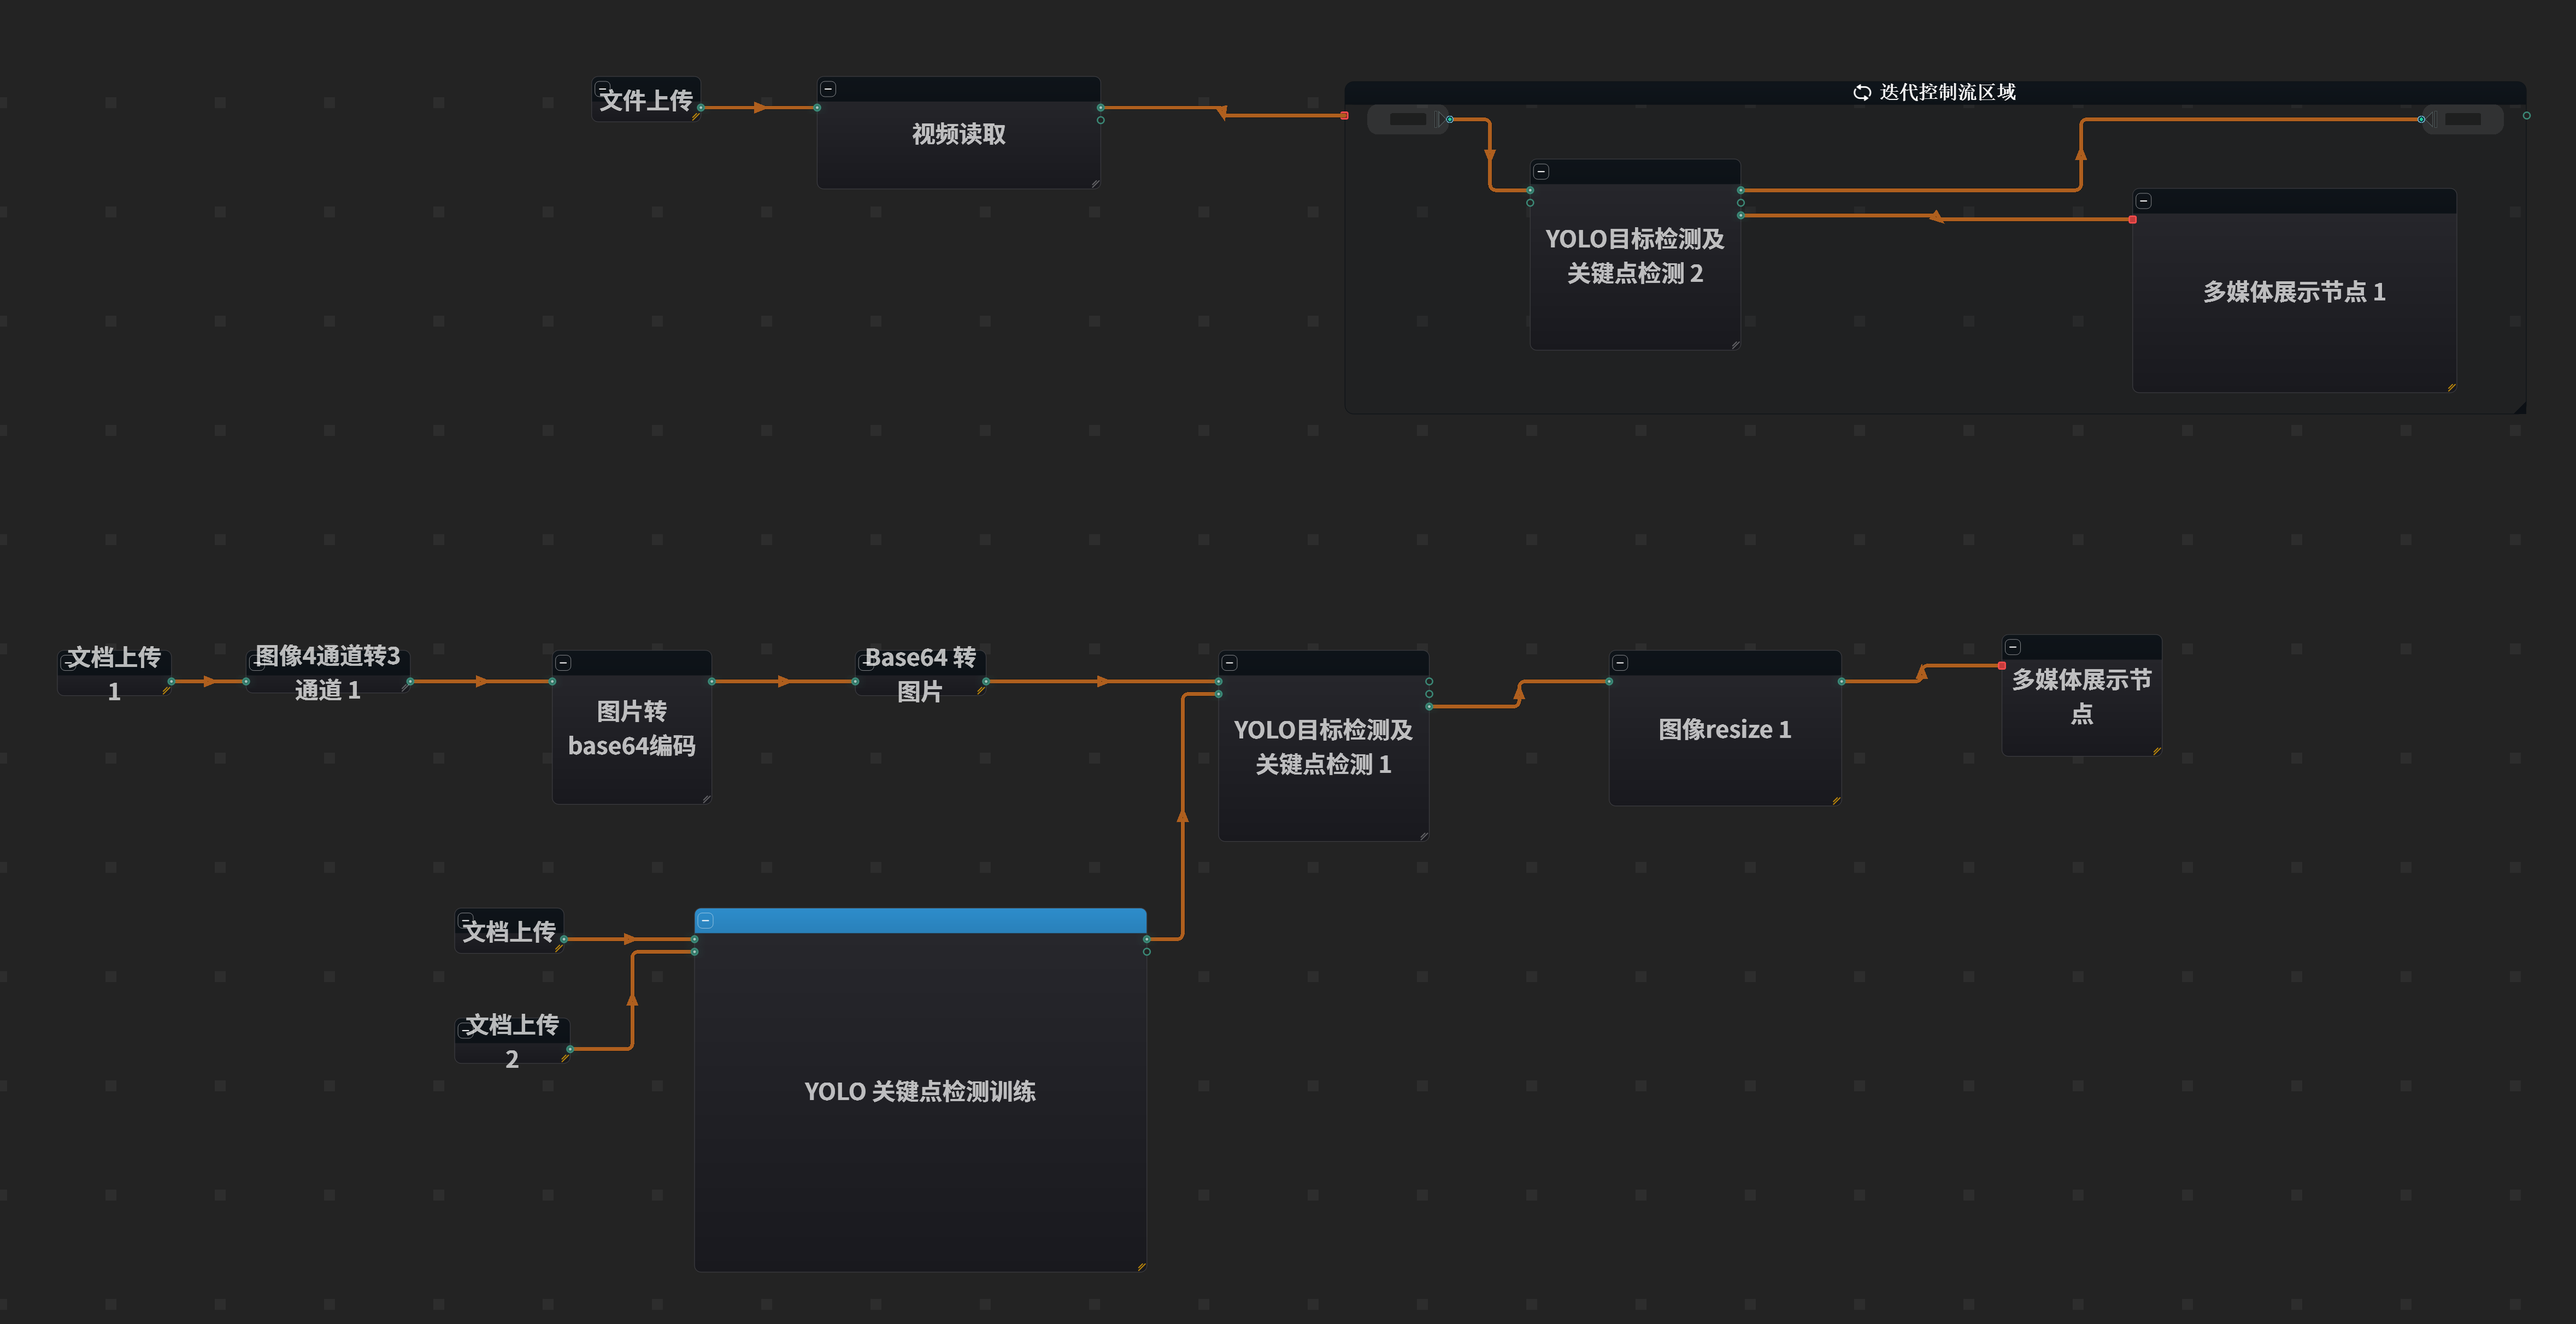
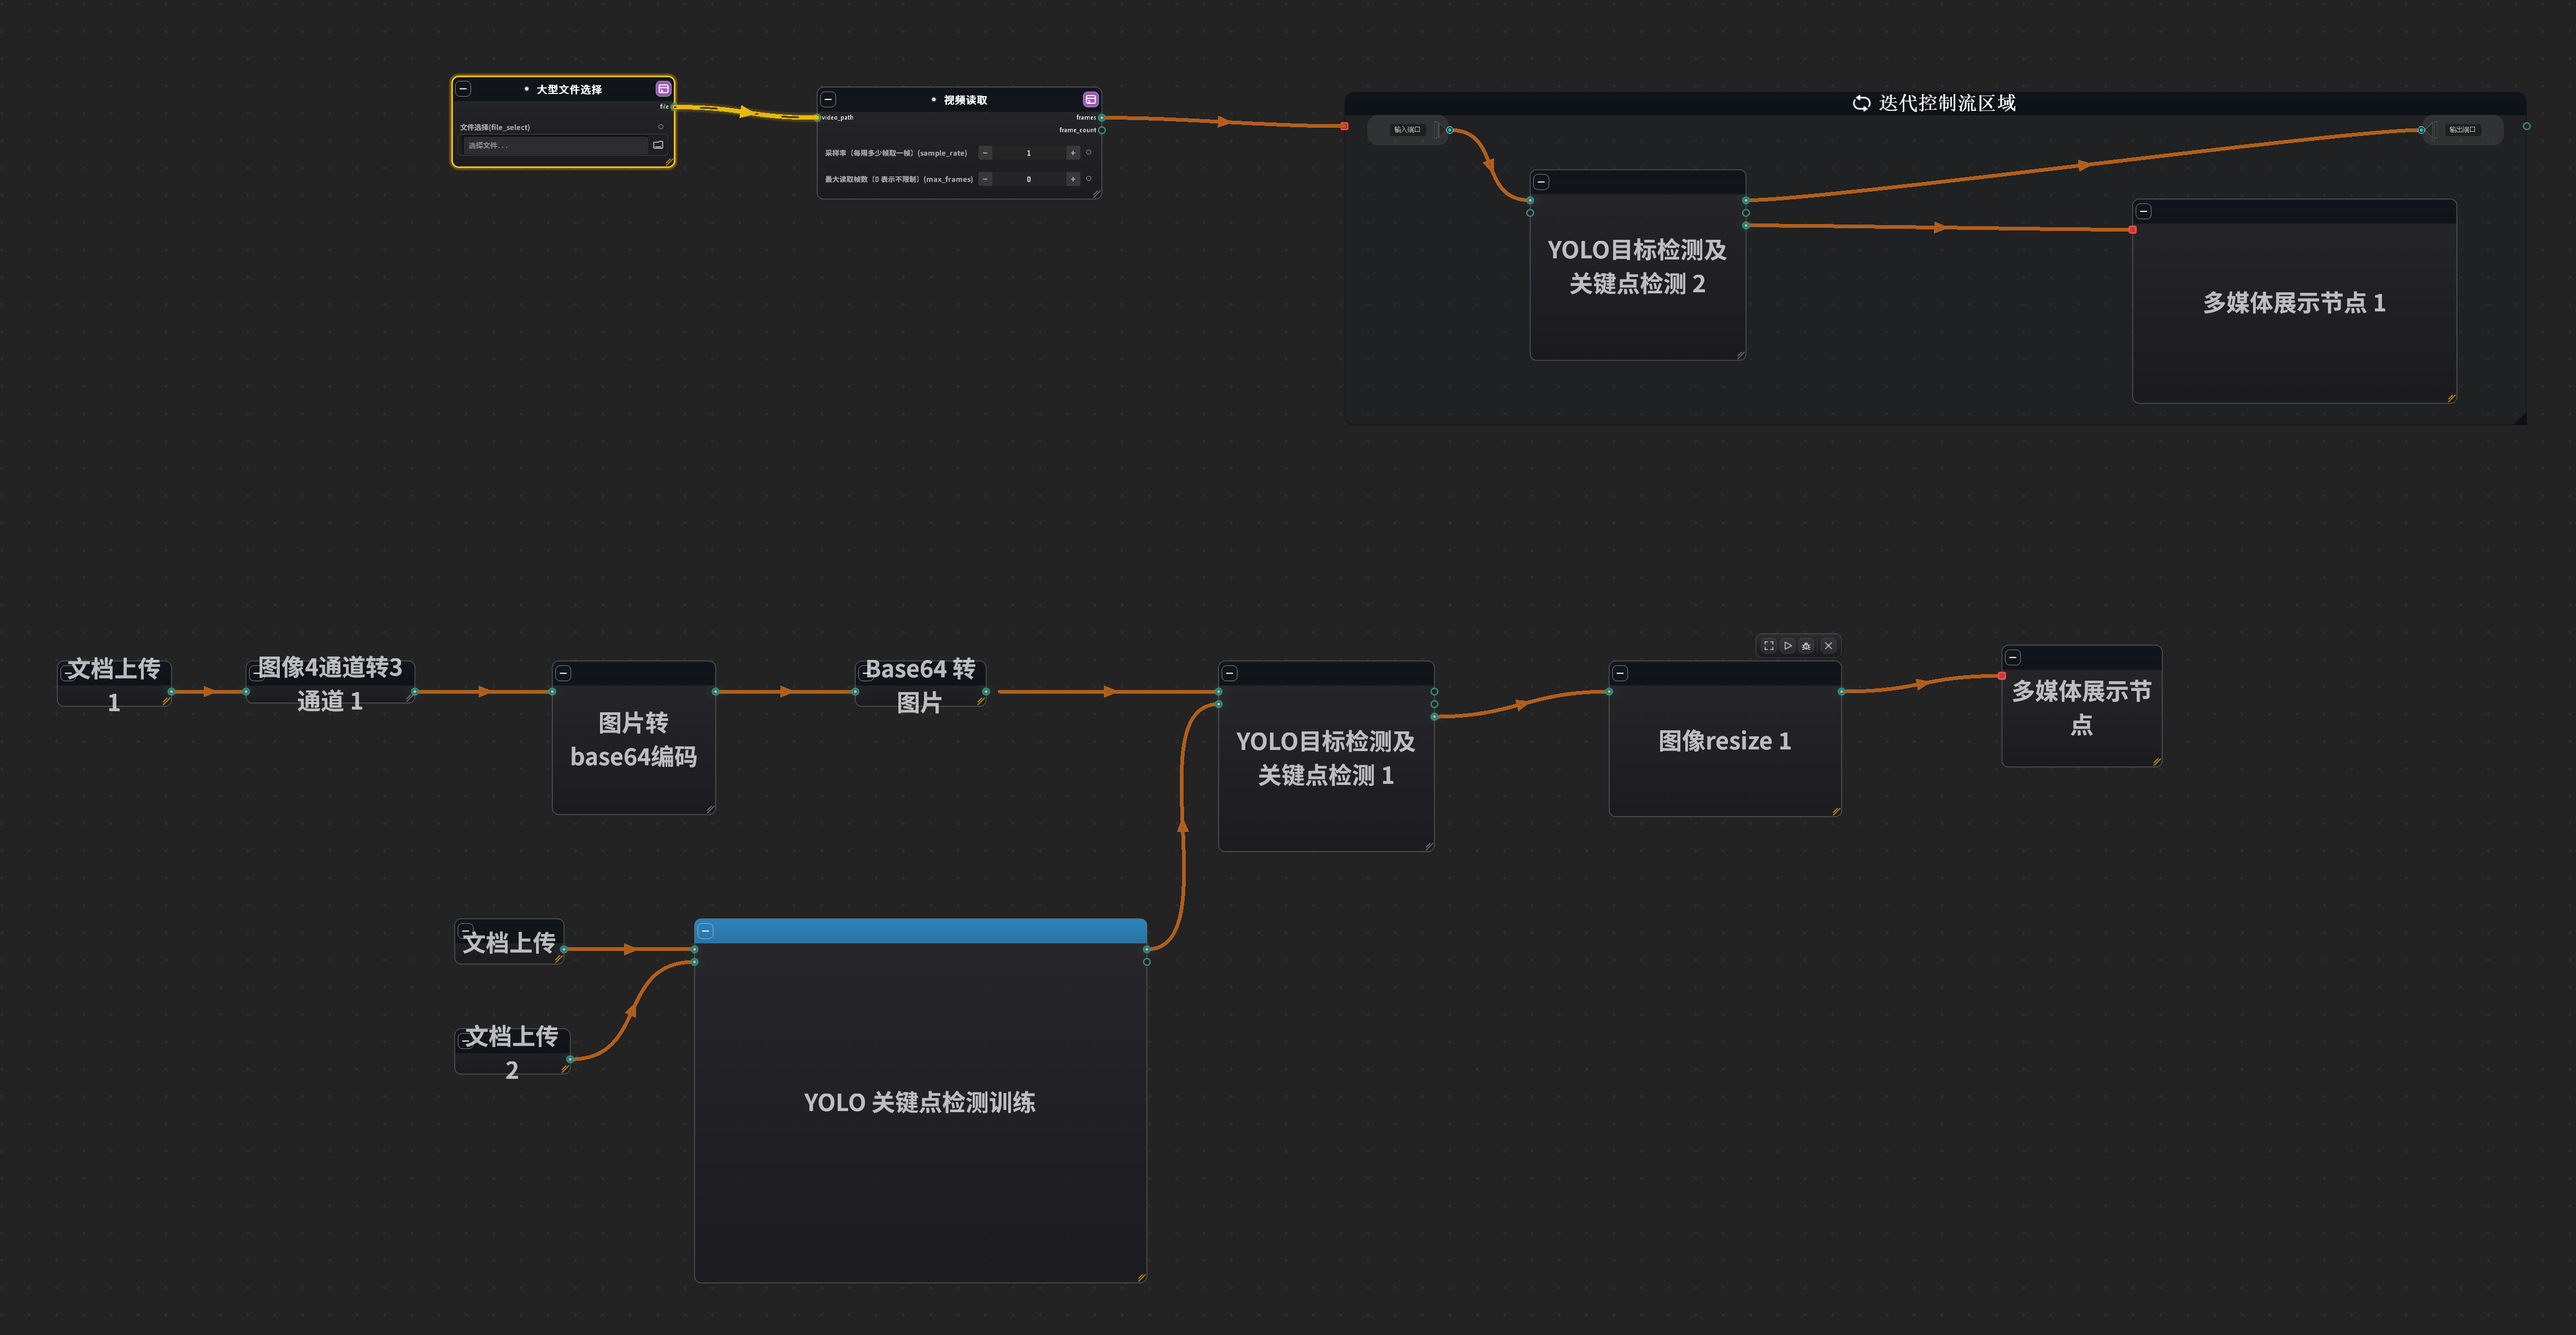
fix(gui): 修复SSH远程文件对话框和LLM任务状态管理问题
- 移除包管理器环境变更连接避免重复触发
- 在SSH远程文件对话框中添加ESC和回车事件处理过滤器
- 添加表格项目点击和选择变化事件处理增强用户体验
- 修复文件上传进度计算逻辑确保准确显示传输状态
- 添加LLM任务阶段提示和上下文构建优化AI交互流程
- 更新工作流程配置中的节点ID和连接关系保持一致性
- 修复SSH远程执行环境配置确保正确连接和执行

diff --git a/app/widgets/dialog_widget/ssh_remote_file_dialog.py b/app/widgets/dialog_widget/ssh_remote_file_dialog.py
@@ -375,8 +375,7 @@ class SSHRemoteFileDialog(QtWidgets.QDialog):
         self.path_edit = LineEdit()
         self.path_edit.setPlaceholderText("输入远程路径或使用面包屑导航...")
         self.path_edit.setClearButtonEnabled(True)
-        self.path_edit.returnPressed.connect(self._on_path_entered)
-        self.path_edit.installEventFilter(self)  # 用于ESC清除
+        self.path_edit.installEventFilter(self)  # 用于ESC和回车处理
 
         top_bar.addWidget(self.btn_back)
         top_bar.addWidget(self.btn_refresh)
@@ -402,6 +401,8 @@ class SSHRemoteFileDialog(QtWidgets.QDialog):
 
         # 双击/回车打开
         self.table.itemDoubleClicked.connect(self._on_item_double_clicked)
+        self.table.itemClicked.connect(self._on_item_clicked)
+        self.table.itemSelectionChanged.connect(self._on_selection_changed)
         self.table.keyPressEvent = self._table_key_press  # 重写键盘事件
 
         # 表头设置 - 关键优化：实现表格铺展和排序
@@ -616,6 +617,12 @@ class SSHRemoteFileDialog(QtWidgets.QDialog):
                 self.path_edit.setText(self.current_path)
                 self.path_edit.clearFocus()
                 return True
+            if (
+                event.key() == QtCore.Qt.Key_Return
+                or event.key() == QtCore.Qt.Key_Enter
+            ):
+                self._on_path_entered()
+                return True
         return super().eventFilter(obj, event)
 
     def _table_key_press(self, event):
@@ -676,7 +683,35 @@ class SSHRemoteFileDialog(QtWidgets.QDialog):
                 self.selection_label.setText(data["path"])
             else:
                 self.last_selected_path = None
-        self.selection_label.setText(self.tr("⚠ 请选择文件"))
+                self.selection_label.setText("⚠ 请选择文件")
+
+    def _on_selection_changed(self):
+        """选中变化时更新状态"""
+        selected_items = self.table.selectedItems()
+        if not selected_items:
+            return
+
+        first_item = selected_items[0]
+        row = first_item.row()
+        data = self.table.item(row, 0).data(QtCore.Qt.UserRole)
+
+        if not data:
+            return
+
+        # 只处理单选
+        rows = set(item.row() for item in selected_items)
+        if len(rows) == 1:
+            if self.selection_mode == "any":
+                self.last_selected_path = data["path"]
+                self.selection_label.setText(data["path"])
+            elif self.selection_mode == "folder":
+                if data["is_dir"]:
+                    self.last_selected_path = data["path"]
+                    self.selection_label.setText(data["path"])
+            elif self.selection_mode == "file":
+                if not data["is_dir"]:
+                    self.last_selected_path = data["path"]
+                    self.selection_label.setText(data["path"])
 
     def _on_item_double_clicked(self, item):
         """双击处理 - 进入目录或选择文件"""
@@ -884,10 +919,16 @@ class SSHRemoteFileDialog(QtWidgets.QDialog):
         progress.setAutoReset(True)
 
         transferred = 0
+        file_sizes = {p: os.path.getsize(p) for p in local_paths}
+        total_size = sum(file_sizes.values())
+        current_file_index = [0]
 
         def progress_callback(transferred_bytes, total_bytes):
             nonlocal transferred
-            transferred += transferred_bytes
+            prev_files_size = sum(
+                file_sizes[local_paths[i]] for i in range(current_file_index[0])
+            )
+            transferred = prev_files_size + transferred_bytes
             progress.setValue(transferred)
             progress.setLabelText(
                 f"已上传: {transferred / 1024 / 1024:.1f} MB / {total_size / 1024 / 1024:.1f} MB"
@@ -897,7 +938,8 @@ class SSHRemoteFileDialog(QtWidgets.QDialog):
                 raise Exception("用户取消了上传")
 
         try:
-            for local_path in local_paths:
+            for i, local_path in enumerate(local_paths):
+                current_file_index[0] = i
                 # 计算远程路径
                 if base_local_path:
                     # 保持目录结构

diff --git a/app/widgets/side_dock_area/plugins/llm_chatter/core/task_state.py b/app/widgets/side_dock_area/plugins/llm_chatter/core/task_state.py
@@ -34,6 +34,32 @@ class TaskSessionState:
     verification_status: str = "not_run"
     verification_summary: str = ""
     recent_events: List[TaskEvent] = field(default_factory=list)
+    prompts = {
+        "discover": "## Active Stage: Discover\n"
+                    "Goal: Understand project structure, constraints, and relevant context.\n"
+                    "Expected tools: Read, Glob, Grep, Bash (for exploration).\n"
+                    "→ When context is sufficient, respond with [STAGE: plan] to transition.",
+        "plan": "## Active Stage: Plan\n"
+                "Goal: Produce implementation path with files, risks, validation steps.\n"
+                "Expected tools: Write a concrete plan using todo tool or analysis.\n"
+                "→ When plan is solid, respond with [STAGE: edit] to transition.",
+        "edit": "## Active Stage: Edit\n"
+                "Goal: Make focused changes, preserve local patterns, keep edits verifiable.\n"
+                "Expected tools: write, edit.\n"
+                "→ When changes are complete, respond with [STAGE: verify] to transition.",
+        "verify": "## Active Stage: Verify\n"
+                  "Goal: Run validation commands, explain failures concretely.\n"
+                  "Expected tools: Bash (pytest, test, compile, lint).\n"
+                  "→ When verification passes, respond with [STAGE: review] to transition.",
+        "review": "## Active Stage: Review\n"
+                  "Goal: Check for regressions, missing tests, weak assumptions.\n"
+                  "Expected tools: Read, Grep for inspection.\n"
+                  "→ When review is done, respond with [STAGE: summarize] to transition.",
+        "summarize": "## Active Stage: Summarize\n"
+                     "Goal: Compress work into concise handoff for next step.\n"
+                     "Expected tools: Final summary output.\n"
+                     "→ Task complete.",
+    }
 
     def set_goal(self, goal: str):
         goal = (goal or "").strip()
@@ -139,8 +165,10 @@ class TaskSessionState:
 
     def build_context_block(self) -> str:
         lines = ["## Current Coding Task State"]
+        lines.append(f"you should follow the stage steps: discover -> plan -> edit -> verify -> review -> summarize to complete the task.")
         lines.append(f"- Agent: {self.current_agent or 'unknown'}")
         lines.append(f"- Stage: {self.stage}")
+        lines.append(f"- Stage goal: {self.prompts.get(self.stage, 'unknown')}")
         lines.append(f"- Goal: {self.current_goal or 'Not set'}")
         lines.append(f"- Verification: {self.verification_status}")
         if self.related_files:
@@ -166,7 +194,11 @@ class TaskSessionState:
     def build_event_digest(self) -> str:
         if not self.recent_events:
             return ""
-        lines = ["## Recent Execution Digest"]
+        lines = [
+            "## Current Execution Time",
+            f"- {datetime.now().strftime('%Y-%m-%d %H:%M:%S')}\n"
+            "## Recent Execution Digest"
+        ]
         for event in self.recent_events[-8:]:
             lines.append(f"- {event.timestamp} [{event.kind}] {event.payload}")
-        return "\n".join(lines)
+        return "\n".join(lines) + "\n\n"

diff --git a/app/main_window.py b/app/main_window.py
@@ -170,7 +170,6 @@ class LowCodeWindow(FluentWindow):
         pkg_item = self.addSubInterface(
             self.package_manager, get_icon("工具包"), self.tr("环境管理")
         )
-        pkg_item.clicked.connect(self.package_manager.on_env_changed)
 
         # 底部功能区
         self.navigationInterface.addItem(
